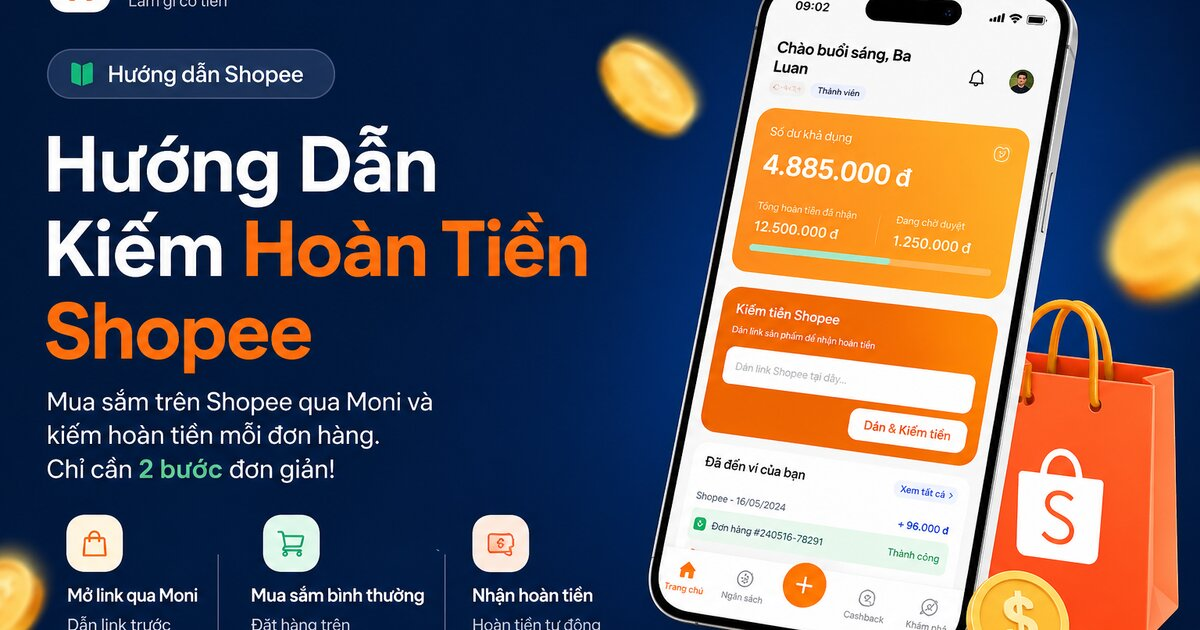
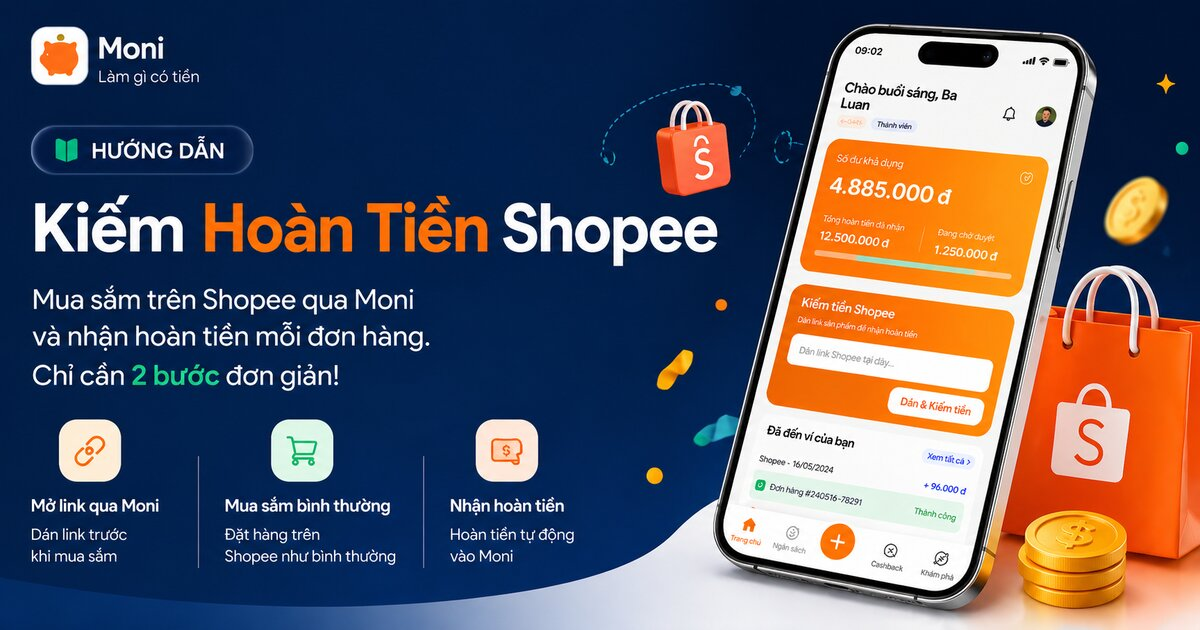
seo: update affiliate-guide OG image to new design

diff --git a/affiliate-guide/index.html b/affiliate-guide/index.html
@@ -20,8 +20,8 @@
   <meta property="og:url" content="https://moni.live/affiliate-guide/">
   <meta property="og:title" content="Cách Hoàn Tiền Shopee Qua Moni - Hướng Dẫn Chi Tiết 2026">
   <meta property="og:description" content="Hướng dẫn 2 cách hoàn tiền Shopee qua app Moni. Hoàn tiền 2-15%, tự động ghi nhận, rút về ngân hàng không giới hạn, miễn phí.">
-  <meta property="og:image" content="https://moni.live/images/og-image-affiliate.jpg?v=1">
-  <meta property="og:image:secure_url" content="https://moni.live/images/og-image-affiliate.jpg?v=1">
+  <meta property="og:image" content="https://moni.live/images/og-image-affiliate.jpg?v=2">
+  <meta property="og:image:secure_url" content="https://moni.live/images/og-image-affiliate.jpg?v=2">
   <meta property="og:image:width" content="1200">
   <meta property="og:image:height" content="630">
   <meta property="og:image:type" content="image/jpeg">
@@ -33,7 +33,7 @@
   <meta name="twitter:site" content="@moniliveapp">
   <meta name="twitter:title" content="Cách Hoàn Tiền Shopee Qua Moni - Hướng Dẫn Chi Tiết 2026">
   <meta name="twitter:description" content="Hướng dẫn 2 cách hoàn tiền Shopee qua app Moni. Hoàn tiền 2-15%, tự động ghi nhận, rút về ngân hàng không giới hạn.">
-  <meta name="twitter:image" content="https://moni.live/images/og-image-affiliate.jpg?v=1">
+  <meta name="twitter:image" content="https://moni.live/images/og-image-affiliate.jpg?v=2">
 
   <!-- HowTo + FAQPage Structured Data -->
   <script type="application/ld+json">
